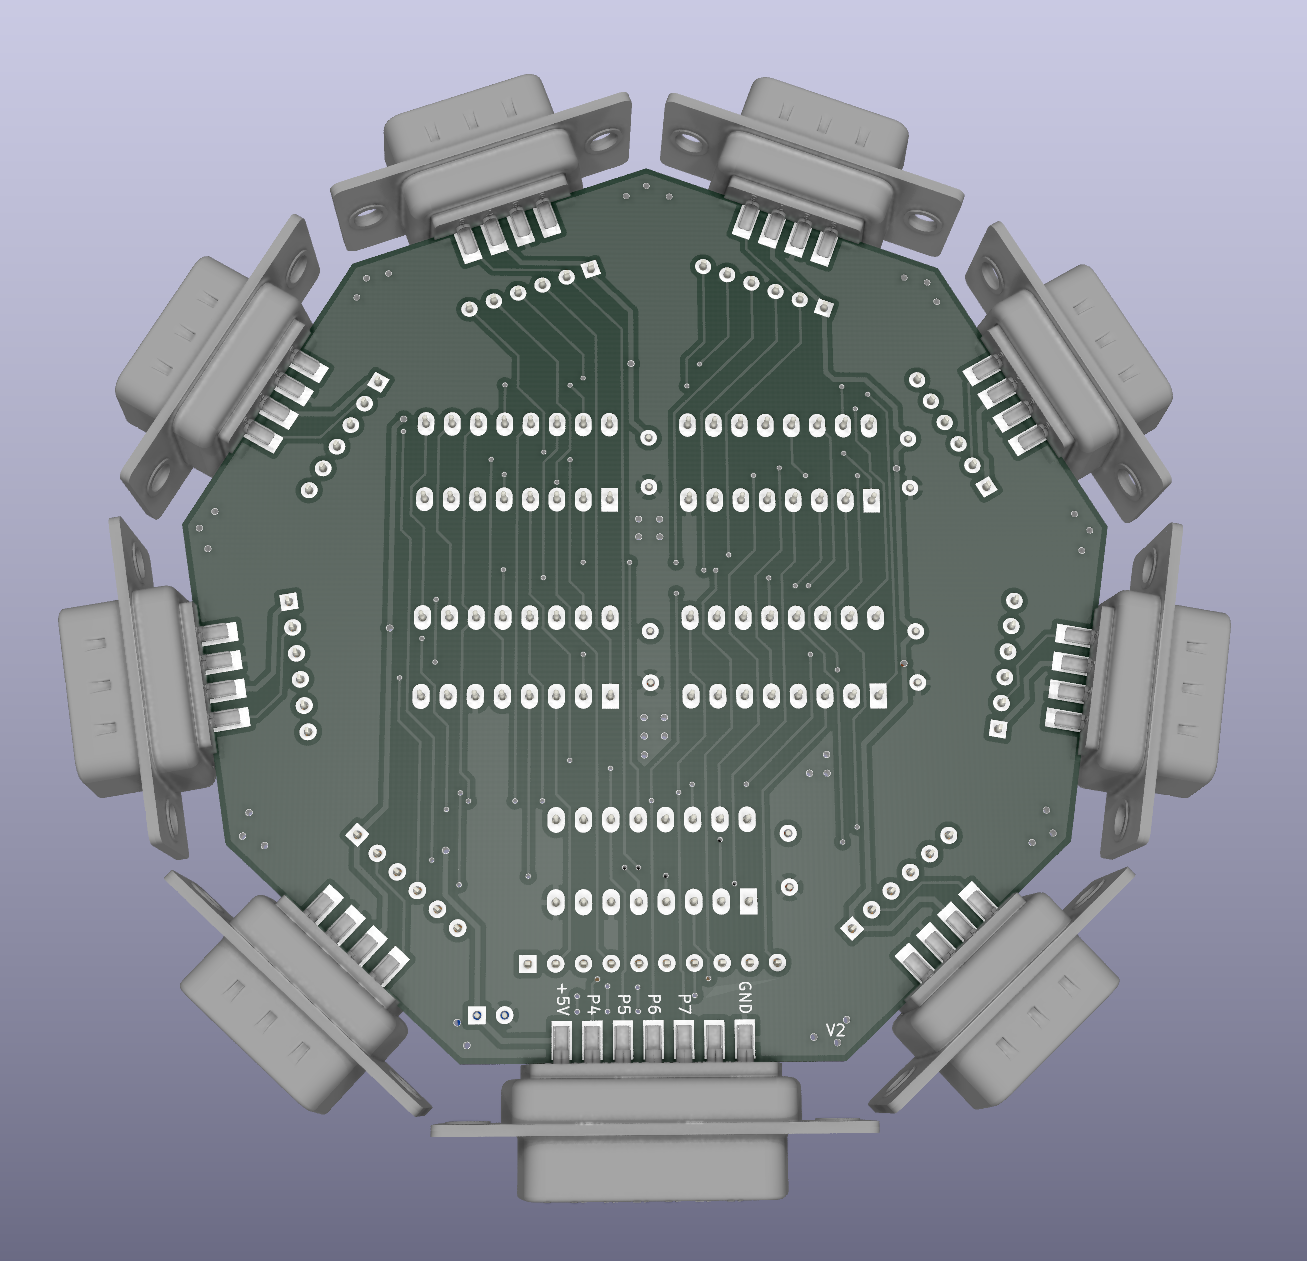
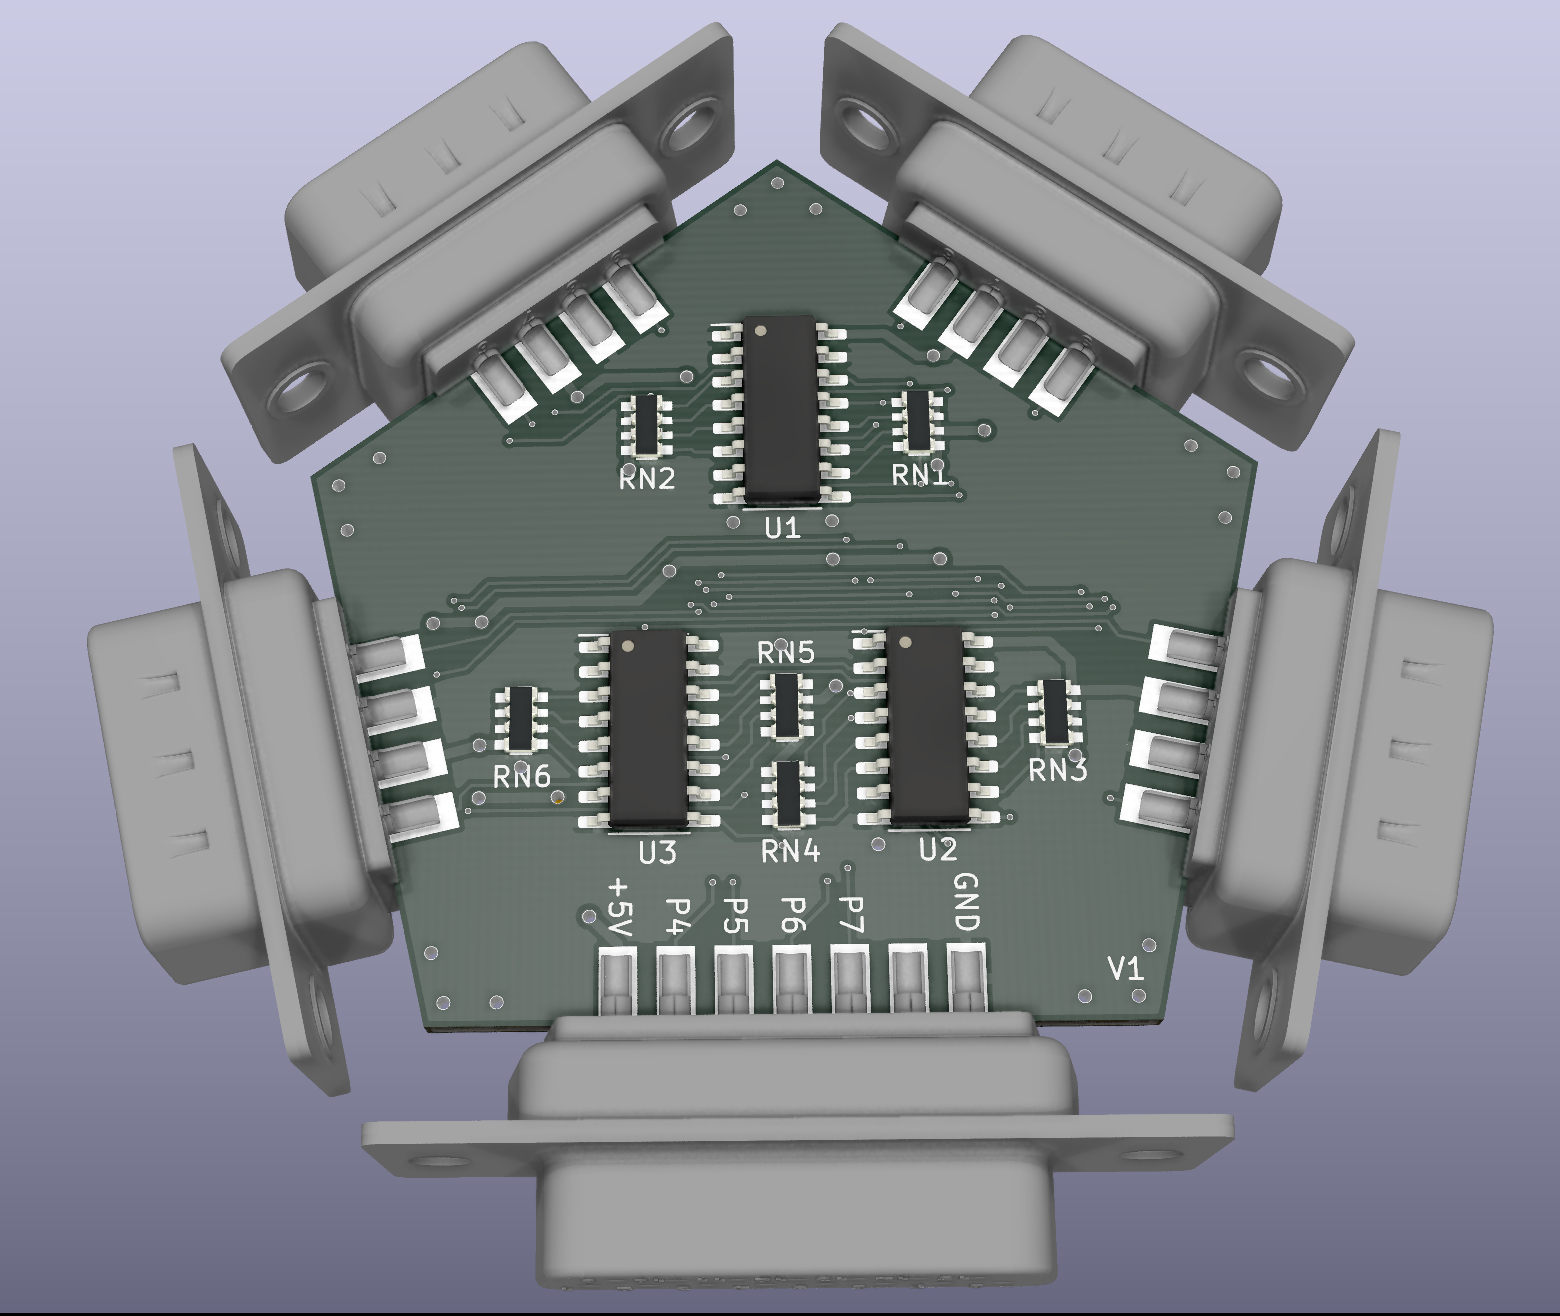
Update renders and README

diff --git a/README.md b/README.md
@@ -1,17 +1,15 @@
-# WheelOfJoy
-WheelOfJoy is an Open Hardware 8-player joystick adapter for the Commodore 16 and Plus/4.
+# WheelOfJoyMini
+WheelOfJoyMini is an Open Hardware 4-player joystick adapter for the Commodore 16, 116 and Plus/4 with 2-button support.
 
-![Board](https://raw.githubusercontent.com/SukkoPera/WheelOfJoy/master/img/render-top.png)
+![Board](https://raw.githubusercontent.com/SukkoPera/WheelOfJoyMini/master/img/render-top.png)
 
 ## Summary
-The original intent was to figure out how [Solder's 3-joystick Adapter](https://plus4world.powweb.com/hardware/3fach_Joystickadapter_Synergy) worked. It was pretty easy once I realized that the User Port has an output latch, but that also meant that even these 3 extra ports would suffer from the "bouncing ground" effect which prevents using powered controllers.
+After I released [WheelOfJoy](https://github.com/SukkoPera/WheelOfJoy), some people suggested that a 4-player adapter with support for 2 joystick buttons would probably be more useful, so here we go :).
 
-So I began thinking how to replicate the adapter while avoiding that and suddenly I realized that a very simple solution could be used and that it could easily be extended to support 8 joystick while retaining compatibility with the original adapter.
-
-The board plugs in the User Port, which means that in order to use it on a C16 or C116, you will need [a User Port card](https://github.com/SukkoPera/16up).
+Just like its bigger brother, the board plugs in the User Port, which means that in order to use it on a C16 or C116, you will need [a User Port card](https://github.com/SukkoPera/16up).
 
 ## Assembly
-I recommend soldering all the ports first, then the resistor arrays. Speaking of those, note that while RN1-8 are *bussed*, RN9 is *independent*. You can replace the latter with 5 normal resistors soldered on every two adjacent holes.
+I recommend soldering all the resistor arrays first, then the chips and the capacitors, with the ports last.
 
 The adapter can be connected to the computer through a cable with a User Port connector on one side and a male DB-15 on the other. I did this so that the adapter can be placed more freely on the table so that all players can reach it comfortably. The adapter-end of the cable can also be soldered directly to it, if you prefer. Pin names are noted on the board, but here's a handy table:
 
@@ -33,43 +31,64 @@ The adapter can be connected to the computer through a cable with a User Port co
 |14	          | -9V    | 11              | Not used by this board |
 |15	          | GND    | 1, 12, A or N   |                        |
 
-Some pins are not used because I plan to use this same pinout in the future for any other boards I may make requiring one.
+This is exactly the same cable used by WheelOfJoy.
 
 [This](https://www.thingiverse.com/thing:3368773) and [these](https://www.thingiverse.com/thing:5213203) will help you make a good-looking job with your cable.
 
 I estimate all the components required to self-build this thing to cost < 10€, probably closer to 5€ if you get them from China.
 
 ## Supported Games
-Of course there isn't much software support for this at the moment but I tested it with [Tron 6](https://plus4world.powweb.com/software/Tron_6) and it works fine in "Solder compatible mode". To test the whole 8 ports I wrote a simple BASIC program and everything seems to work as it should. Now it's up to the developers to write party games for the C16/+4 for up to 10 players!
+Of course there isn't any software support for this at the moment. It's up to the developers to write party games for the C16/+4 for up to 6 players!
 
 ## Programming
-The board uses 5 8-to-1 multiplexers, one per direction plus one for the fire button. Channel selection happens in parallel on all multiplexers and is done with the 3 high bits of the User Port.
+The board uses 3 dual 4-to-1 multiplexers, totalling to 6 multiplexers: one per direction plus one for every fire button. Channel selection happens in parallel on all multiplexers and is done with the 2 high bits of the User Port.
 
-This means that the board works exactly like the one from Solder but the selection value is not restricted to those having exactly one zero. All values will select the corresponding port, software compatible with Solder adapter will select ports 7, 6 and 4 as 4, 5 and 6 respectively (Solder's numbering counts joystick 3 as the one available on [SID cards](https://github.com/SukkoPera/ReSeed).
+1. Write a value N at the User Port register depending on the port you want to read. General formula for port P ∈ [1,4] is the following:
 
-The multiplexers used on the board are analog, so the adapter is bidirectional and the ports can also be independently used as 5-bit output ports.
+   ```N = ((P - 1) << 6) | 0x3F```
+
+   Or just pick your value from the following table:
+
+   | # | Binary    | Hex| Dec |
+   |---|-----------|----|-----|
+   | 1 | 001 11111 | 3F |  63 |
+   | 2 | 011 11111 | 7F | 127 |
+   | 3 | 101 11111 | BF | 191 |
+   | 4 | 111 11111 | FF | 255 |
+
+2. Read the value of the User Port register, the lowest 6 bits will report direction/button status:
+
+   | Bit 7 | Bit 6 | Bit 5  | Bit 4  | Bit 3 | Bit 2 | Bit 1 | Bit 0 |
+   |-------|-------|--------|--------|-------|-------|-------|-------|
+   |   X   |   X   |Button 2|Button 1| Left  | Right | Down  | Up    |
+
+   Every bit will be 0 if the corresponding button is pressed, 1 otherwise.
 
 ## Compatibility
-Any Atari-compliant joystick or joypad should work with this board, including Sega MegaDrive/Genesis controllers, as **pin 5 is connected to +5V**.
+Any Atari-compliant joystick or joypad should work with this board. Button 2 is expected to be wired to pin 9 and to be active-low as all the other buttons. This is the most common setup, used by all 2-button joysticks and adapters designed for the Amiga, including [my PSX adapter](https://github.com/SukkoPera/OpenPSX2AmigaPadAdapter) and the [my variant of the Unijoysticle2](https://gitlab.com/SukkoPera/unijoysticle2).
+
+Sega controllers also use the same configuration: you can use Master System and Mega Drive/Genesis - buttons B and C - controllers straight away as **the adapter also provides power to pin 5**.
 
 The latter also means that you MUST NOT use the adapter with anything that can pull pin 5 straight to ground, such as 3-button Amiga mice (what would be the purpose of that anyway?).
 
-Also keep in mind that the USer Port is only guaranteed to provide 100 mA on the +5V pin, even though I don't think there's anything actually limiting that.
+Note that the few 2-button games for the C64 typically use inverted logic for button 2 (don't ask me why but this dates back to the C64 GS, I think), even if this was handled in SW, I cannot guarantee that any joysticks made this way will work correctly with the adapter.
+
+Also keep in mind that the User Port is only guaranteed to provide 100 mA on the +5V pin, even though I don't think there's anything actually limiting that.
 
 ## Releases
-If you want to get this board produced, you are recommended to get [the latest release](https://github.com/SukkoPera/WheelOfJoy/releases) rather than the current git version, as the latter might be under development and is not guaranteed to be working.
+If you want to get this board produced, you are recommended to get [the latest release](https://github.com/SukkoPera/WheelOfJoyMini/releases) rather than the current git version, as the latter might be under development and is not guaranteed to be working.
 
 Every release is accompanied by its Bill Of Materials (BOM) file and any relevant notes about it, which you are recommended to read carefully.
 
 ## License
-The WheelOfJoy documentation, including the design itself, is copyright &copy; SukkoPera 2019-2021 and is licensed under the [Creative Commons Attribution-NonCommercial-ShareAlike 4.0 International License](https://creativecommons.org/licenses/by-nc-sa/4.0/).
+The WheelOfJoyMini documentation, including the design itself, is copyright &copy; SukkoPera 2019-2021 and is licensed under the [Creative Commons Attribution-NonCommercial-ShareAlike 4.0 International License](https://creativecommons.org/licenses/by-nc-sa/4.0/).
 
 This documentation is distributed *as is* and WITHOUT ANY EXPRESS OR IMPLIED WARRANTIES whatsoever with respect to its functionality, operability or use, including, without limitation, any implied warranties OF MERCHANTABILITY, SATISFACTORY QUALITY, FITNESS FOR A PARTICULAR PURPOSE or infringement. We expressly disclaim any liability whatsoever for any direct, indirect, consequential, incidental or special damages, including, without limitation, lost revenues, lost profits, losses resulting from business interruption or loss of data, regardless of the form of action or legal theory under which the liability may be asserted, even if advised of the possibility or likelihood of such damages.
 
 ## Support the Project
 If you want to get some boards manufactured, you can get them from PCBWay through this link:
 
-[![PCB from PCBWay](https://www.pcbway.com/project/img/images/frompcbway.png)](https://www.pcbway.com/project/shareproject/WheelOfJoy_Commodore_16_116_4_8_Player_Joystick_Adapter_059c7037.html)
+[![PCB from PCBWay](https://www.pcbway.com/project/img/images/frompcbway.png)](https://www.pcbway.com/project/shareproject/WheelOfJoyMini_Commodore_16_116_4_8_Player_Joystick_Adapter_059c7037.html)
 
 You get my gratitude and cheap, professionally-made and good quality PCBs, I get some credit that will help with this and [other projects](https://www.pcbway.com/project/member/shareproject/?bmbid=41100). You won't even have to worry about the various PCB options, it's all pre-configured for you!
 
@@ -80,7 +99,8 @@ You can also buy me a coffee if you want:
 <a href='https://ko-fi.com/L3L0U18L' target='_blank'><img height='36' style='border:0px;height:36px;' src='https://az743702.vo.msecnd.net/cdn/kofi2.png?v=2' border='0' alt='Buy Me a Coffee at ko-fi.com' /></a>
 
 ## Credits
-* Thanks to Solder for being such a prolific hacked and a great inspiration :).
+* Thanks to siz for the idea.
+* Thanks to Solder for being such a prolific hacker and a great inspiration :).
 * 3D model of [DB-9](https://grabcad.com/library/d-sub-9-pin-male-1) and [DB-15 connector](https://grabcad.com/library/d-sub-15-pin-female-2-lines-1) by Alex K.
 * Font used for port numbers is [Agreement Signature by wepfont](https://www.fontspace.com/a-agreement-signature-font-f52534) (800 DPI).
 * Font used for the logo is [Senja Santuy by Zuzulgo](https://www.fontspace.com/senja-santuy-font-f74971) (450 DPI).
